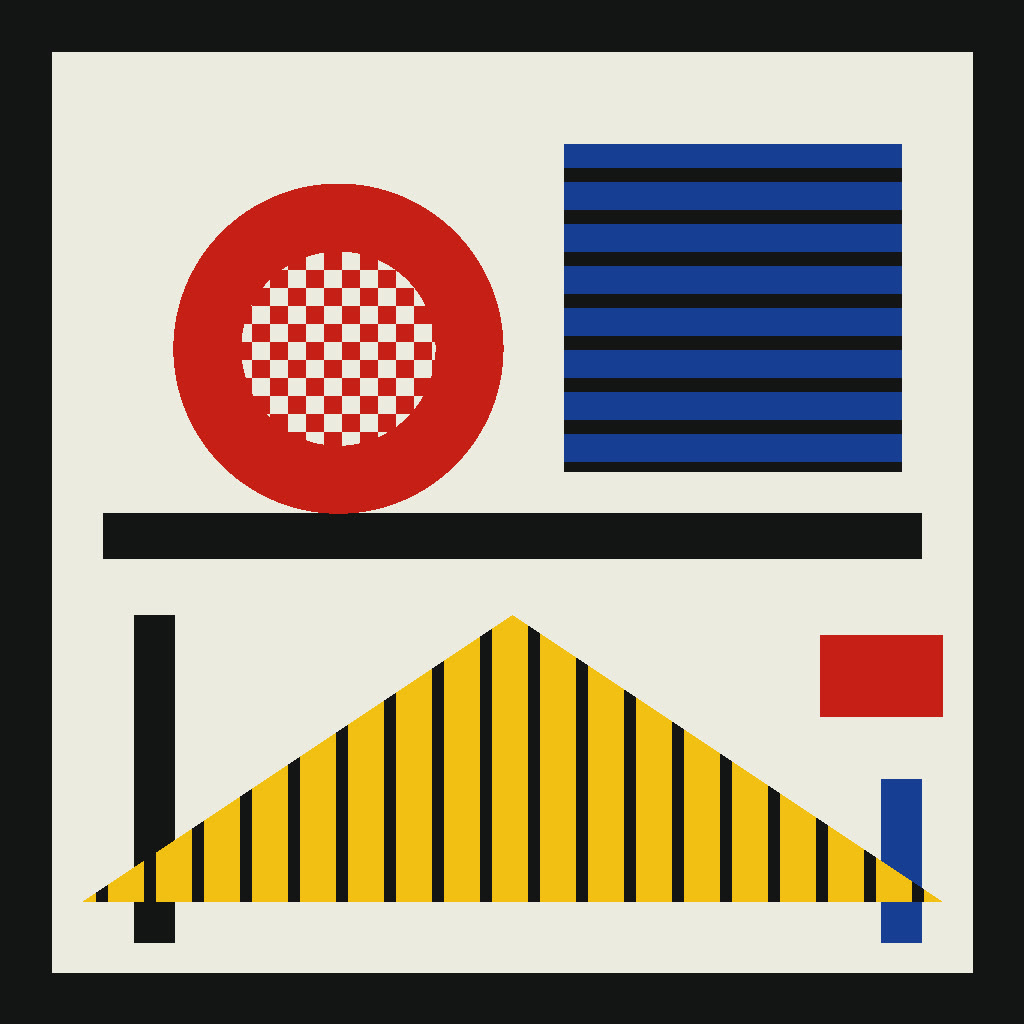
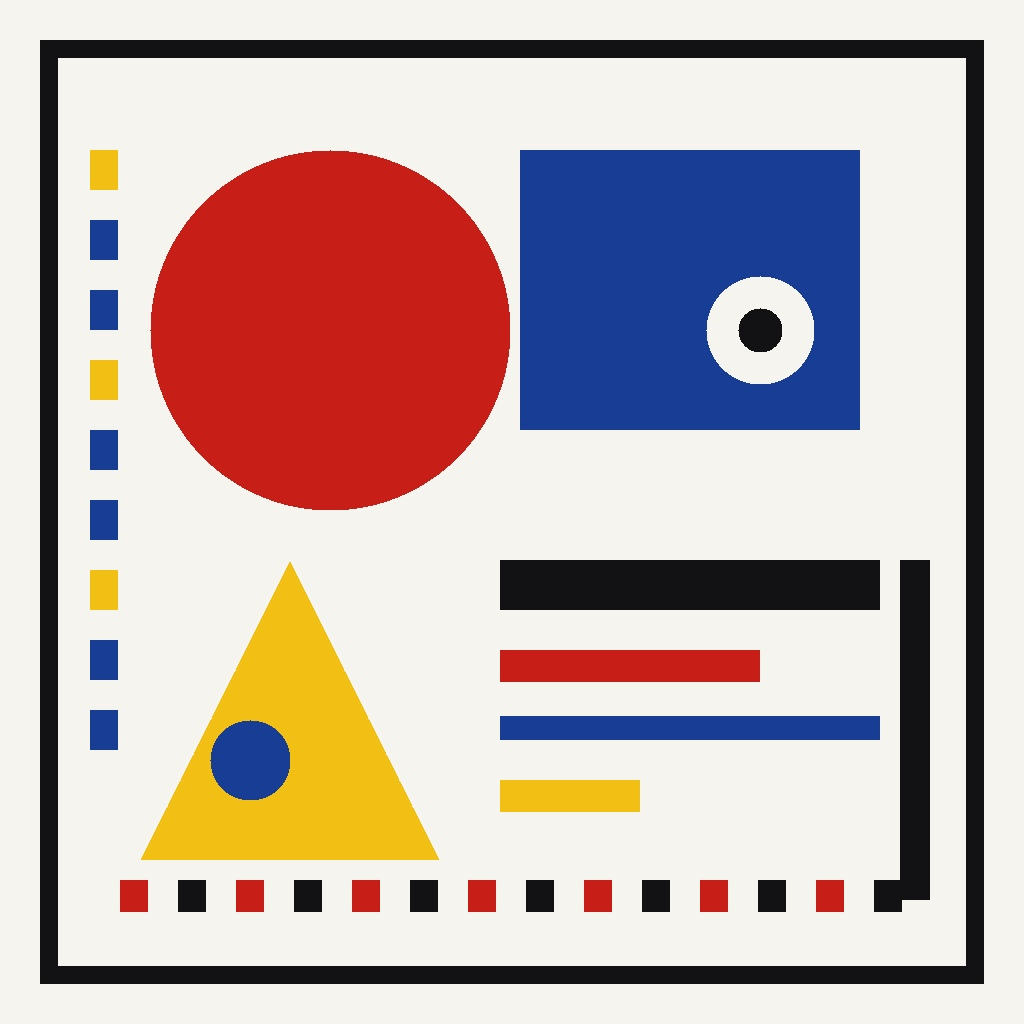
The set stands on the anchor people have actually printed
make-ar-set.py drew its own anchor — a different Bauhaus composition from
the one the Dashboard ships and the one published as
downloads/demo-triadic-ballet-anchor.jpg. Both are findable pictures;
they are not the same picture. A phone looks for the drawing named in the
set it was given, so the kit's set could never be raised on the sheet in
anyone's hands, and it failed in the worst way available: silently. The
cue goes out, the camera opens, nothing stands up.

The two models are otherwise identical — same 16 nodes, 4 meshes, 6
materials, 69 accessors, the skin, the pavane, both screen bindings — so
the drawing was the whole of it.

The published anchor is now the set's anchor, and the script keeps it
rather than replacing it. --new-anchor draws a fresh one, which is what a
set of your own wants; print that one instead.

diff --git a/ar-set/make-ar-set.py b/ar-set/make-ar-set.py
@@ -31,6 +31,8 @@ def blender():
     return None
 
 # ------------------------------------------------------------------ the anchor
+# Only for --new-anchor; the demo set keeps the published drawing. See below.
+#
 # A tracker finds a picture by its corners and edges. Three large flat shapes
 # give it almost nothing to hold on to, so the primaries are broken up with
 # rules and counter-forms until there is detail everywhere, and the whole thing
@@ -63,7 +65,27 @@ def anchor(path, N=1024):
         os.remove(tmp)
 
 print(f"building the demo AR set in {OUT}")
-anchor(p("marker.jpg"))
+
+# ---- which drawing this set stands on ------------------------------------
+# The one that is already printed. This set's anchor is the one the Dashboard
+# ships and the one published at
+#   https://augmented-theatre.web.app/downloads/demo-triadic-ballet-anchor.jpg
+# so it is kept rather than replaced: a phone looks for the picture named in
+# the set it was given, and a set carrying a different drawing -- however good
+# -- simply is not found on the sheet in the audience's hands. That is a
+# silent failure, which is the worst kind: the cue goes out, the camera opens,
+# nothing stands up.
+#
+# --new-anchor draws a fresh one instead, which is what you want for a set of
+# your own; print that, not this.
+SHIPPED = os.path.join(HERE, "demo-triadic-ballet", "marker.jpg")
+if "--new-anchor" in sys.argv or not os.path.exists(SHIPPED):
+    anchor(p("marker.jpg"))
+elif os.path.abspath(SHIPPED) != os.path.abspath(p("marker.jpg")):
+    shutil.copyfile(SHIPPED, p("marker.jpg"))
+    say("kept the published anchor (--new-anchor draws a fresh one instead)")
+else:
+    say("kept the published anchor (--new-anchor draws a fresh one instead)")
 
 # ------------------------------------------------------------------ the films
 for name, life in (("screen-left", "0x1a3d94"), ("screen-right", "0xc71f17")):

diff --git a/README.md b/README.md
@@ -120,10 +120,20 @@ It writes `ar-set/demo-triadic-ballet/`, which is already in this repository —
 so you can deliver the set to a phone (below) before installing Blender, and
 run this when you want to change it.
 
-The anchor is drawn to be *findable*: detail everywhere rather than three flat
-shapes, no mirror symmetry (a symmetric design can be recognised the wrong way
-round), hard contrast, no gradients. Print it 21 cm square — that is the width
-the set is scaled against, declared as `widthMeters` in `ar-set.json`.
+**The anchor is the one that is already printed.** This set's drawing is the one
+the Dashboard ships and the one published at
+[augmented-theatre.web.app/downloads/demo-triadic-ballet-anchor.jpg](https://augmented-theatre.web.app/downloads/demo-triadic-ballet-anchor.jpg),
+so `make-ar-set.py` keeps it rather than drawing another. A phone looks for the
+picture named in the set it was given: a set carrying a *different* drawing is
+simply never found on the sheet in the audience's hands, and it fails silently
+— the cue goes out, the camera opens, nothing stands up. `--new-anchor` draws a
+fresh one instead, which is what you want for a set of your own; print that one.
+
+Whatever the drawing, it has to be *findable*: detail everywhere rather than
+three flat shapes, no mirror symmetry (a symmetric design can be recognised the
+wrong way round), hard contrast, no gradients. Print it 21 cm square — that is
+the width the set is scaled against, declared as `widthMeters` in
+`ar-set.json`.
 
 `build-the-figure.py` builds the figure in Blender. It is a worked example, not
 a general tool: it makes *this* set, and the way to make your own is to read it
